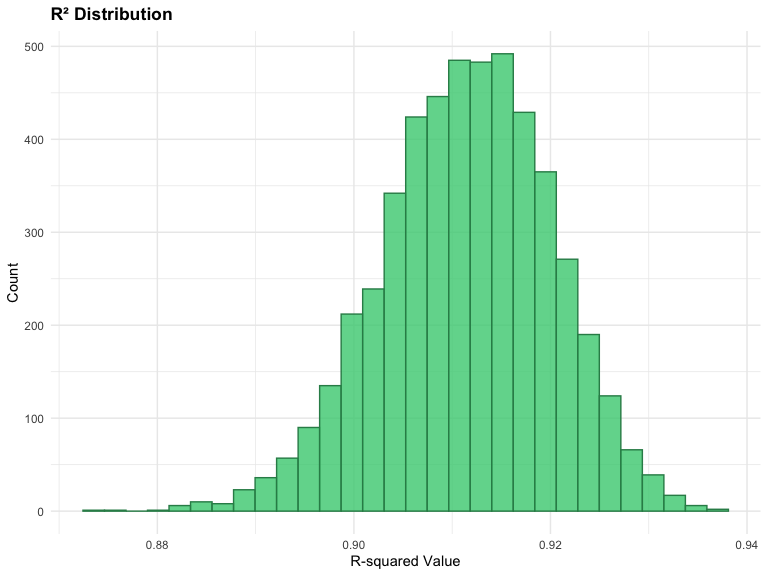
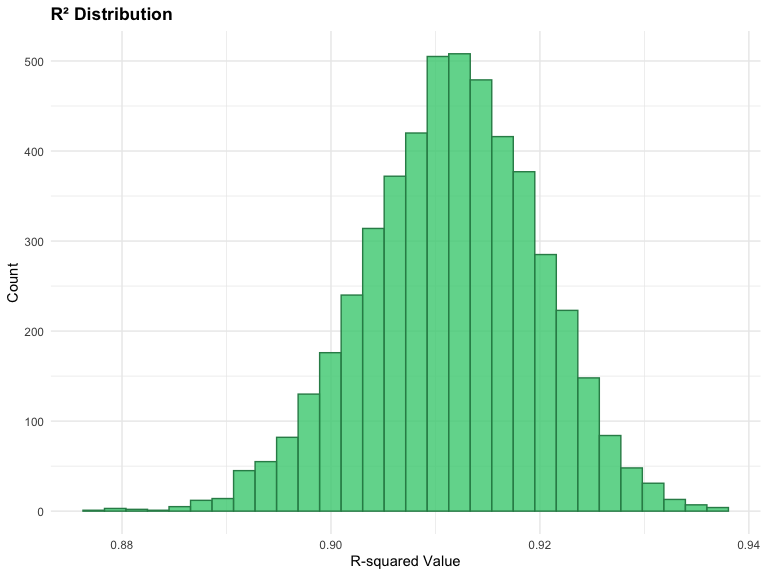
problem 2 first

diff --git a/p8105_hw6_yg2964.md b/p8105_hw6_yg2964.md
@@ -66,7 +66,7 @@ options(
 scale_colour_discrete = scale_colour_viridis_d
 scale_fill_discrete = scale_fill_viridis_d
 
-set.seed(127)
+set.seed(924)
 ```
 
 ### Problem 1
@@ -77,11 +77,11 @@ weather_df =
     c("USW00094728"),
     var = c("PRCP", "TMIN", "TMAX"), 
     date_min = "2017-01-01",
-    date_max = "2017-12-31") %>%
+    date_max = "2017-12-31") |> 
   mutate(
     name = recode(id, USW00094728 = "CentralPark_NY"),
     tmin = tmin / 10,
-    tmax = tmax / 10) %>%
+    tmax = tmax / 10) |> 
   select(name, id, everything())
 
 get_resample = function(df) {
@@ -156,3 +156,188 @@ Distribution: Centered around 2.02 with values ranging from 1.95 to
 2.10, displaying a symmetric distribution that confirms stable, positive
 coefficient products and supports the positive correlation between
 variables.
+
+### Problem 2
+
+``` r
+crime_data = read_csv("https://raw.githubusercontent.com/washingtonpost/data-homicides/master/homicide-data.csv") |>
+  janitor::clean_names() |>
+  mutate(
+    location = paste(city, state, sep = ", "),
+    case_solved = ifelse(disposition == "Closed by arrest", 1, 0),
+    age = as.numeric(victim_age)
+  ) |>
+  filter(!location %in% c("Dallas, TX", "Phoenix, AZ", "Kansas City, MO", "Tulsa, AL")) |>
+  filter(victim_race %in% c("White", "Black"))
+```
+
+#### Single City Analysis (Baltimore)
+
+``` r
+baltimore_data = crime_data |>
+  filter(location == "Baltimore, MD") |>
+  select(uid, case_solved, age, victim_sex, victim_race)
+
+# Fit logistic model for Baltimore
+fit_md_logistic = baltimore_data |>
+  glm(case_solved ~ age + victim_sex + victim_race,
+      data = _, family = binomial())
+
+# Get Baltimore results
+fit_md_logistic |>
+  broom::tidy(conf.int = TRUE) |>
+  mutate(
+    OR = exp(estimate),
+    OR_conf.low = exp(conf.low),
+    OR_conf.high = exp(conf.high)
+  ) |>
+  filter(term == "victim_sexMale") |>
+  select(term, OR, OR_conf.low, OR_conf.high) |>
+  knitr::kable(digits = 3)
+```
+
+| term           |    OR | OR_conf.low | OR_conf.high |
+|:---------------|------:|------------:|-------------:|
+| victim_sexMale | 0.426 |       0.324 |        0.558 |
+
+The odds of solving a homicide in Baltimore for male victims are 0.426
+times the odds for female victims (95% CI: 0.324-0.558), after adjusting
+for age and race. This indicates significantly lower clearance rates for
+male victims compared to female victims.
+
+#### Analysis for All Cities
+
+``` r
+# Function for City Analysis 
+fit_logistic = function(data){
+  model = glm(case_solved ~ age + victim_sex + victim_race,
+              data = data, family = binomial())
+  
+  model |>
+    broom::tidy(conf.int = TRUE) |>
+    mutate(
+      OR = exp(estimate),
+      OR_conf.low = exp(conf.low),
+      OR_conf.high = exp(conf.high)
+    ) |>
+    filter(term == "victim_sexMale") |>
+    select(term, OR, OR_conf.low, OR_conf.high)
+}
+city_results = crime_data |>
+  group_by(location) |>
+  nest() |>
+  mutate(
+    model = map(data, fit_logistic)
+  ) |>
+  unnest(model) |>
+  select(location, OR, OR_conf.low, OR_conf.high) |>
+  ungroup()
+
+
+city_results |>
+  knitr::kable(digits = 3)
+```
+
+| location           |    OR | OR_conf.low | OR_conf.high |
+|:-------------------|------:|------------:|-------------:|
+| Albuquerque, NM    | 1.767 |       0.825 |        3.762 |
+| Atlanta, GA        | 1.000 |       0.680 |        1.458 |
+| Baltimore, MD      | 0.426 |       0.324 |        0.558 |
+| Baton Rouge, LA    | 0.381 |       0.204 |        0.684 |
+| Birmingham, AL     | 0.870 |       0.571 |        1.314 |
+| Boston, MA         | 0.674 |       0.353 |        1.277 |
+| Buffalo, NY        | 0.521 |       0.288 |        0.936 |
+| Charlotte, NC      | 0.884 |       0.551 |        1.391 |
+| Chicago, IL        | 0.410 |       0.336 |        0.501 |
+| Cincinnati, OH     | 0.400 |       0.231 |        0.667 |
+| Columbus, OH       | 0.532 |       0.377 |        0.748 |
+| Denver, CO         | 0.479 |       0.233 |        0.962 |
+| Detroit, MI        | 0.582 |       0.462 |        0.734 |
+| Durham, NC         | 0.812 |       0.382 |        1.658 |
+| Fort Worth, TX     | 0.669 |       0.394 |        1.121 |
+| Fresno, CA         | 1.335 |       0.567 |        3.048 |
+| Houston, TX        | 0.711 |       0.557 |        0.906 |
+| Indianapolis, IN   | 0.919 |       0.678 |        1.241 |
+| Jacksonville, FL   | 0.720 |       0.536 |        0.965 |
+| Las Vegas, NV      | 0.837 |       0.606 |        1.151 |
+| Long Beach, CA     | 0.410 |       0.143 |        1.024 |
+| Los Angeles, CA    | 0.662 |       0.457 |        0.954 |
+| Louisville, KY     | 0.491 |       0.301 |        0.784 |
+| Memphis, TN        | 0.723 |       0.526 |        0.984 |
+| Miami, FL          | 0.515 |       0.304 |        0.873 |
+| Milwaukee, wI      | 0.727 |       0.495 |        1.054 |
+| Minneapolis, MN    | 0.947 |       0.476 |        1.881 |
+| Nashville, TN      | 1.034 |       0.681 |        1.556 |
+| New Orleans, LA    | 0.585 |       0.422 |        0.812 |
+| New York, NY       | 0.262 |       0.133 |        0.485 |
+| Oakland, CA        | 0.563 |       0.364 |        0.867 |
+| Oklahoma City, OK  | 0.974 |       0.623 |        1.520 |
+| Omaha, NE          | 0.382 |       0.199 |        0.711 |
+| Philadelphia, PA   | 0.496 |       0.376 |        0.650 |
+| Pittsburgh, PA     | 0.431 |       0.263 |        0.696 |
+| Richmond, VA       | 1.006 |       0.483 |        1.994 |
+| San Antonio, TX    | 0.705 |       0.393 |        1.238 |
+| Sacramento, CA     | 0.669 |       0.326 |        1.314 |
+| Savannah, GA       | 0.867 |       0.419 |        1.780 |
+| San Bernardino, CA | 0.500 |       0.166 |        1.462 |
+| San Diego, CA      | 0.413 |       0.191 |        0.830 |
+| San Francisco, CA  | 0.608 |       0.312 |        1.155 |
+| St. Louis, MO      | 0.703 |       0.530 |        0.932 |
+| Stockton, CA       | 1.352 |       0.626 |        2.994 |
+| Tampa, FL          | 0.808 |       0.340 |        1.860 |
+| Tulsa, OK          | 0.976 |       0.609 |        1.544 |
+| Washington, DC     | 0.690 |       0.465 |        1.012 |
+
+#### Create Plot
+
+``` r
+city_results |>
+  mutate(
+    location = fct_reorder(location, OR)
+  ) |>
+  ggplot(aes(x = location, y = OR)) +
+  geom_point() +
+  geom_errorbar(
+    aes(ymin = OR_conf.low, ymax = OR_conf.high), 
+    width = 0.5
+  ) +
+  geom_hline(
+    yintercept = 1, 
+    linetype = "dashed", 
+    color = "red"
+  ) +
+  labs(
+    title = "Adjusted Odds Ratios for Solving Homicides by City",
+    x = "City",
+    y = "Odds Ratio (Male vs Female)"
+  ) +
+  theme_minimal() +
+  theme(
+    axis.text.x = element_text(angle = 90, hjust = 1)
+  )
+```
+
+<img src="p8105_hw6_yg2964_files/figure-gfm/unnamed-chunk-6-1.png" width="90%" />
+
+The plot shows adjusted odds ratios for solving homicides comparing male
+to female victims across different U.S. cities. A few key observations:
+
+- Most cities show odds ratios below 1 (red dashed line), indicating
+  that homicides with male victims are generally less likely to be
+  solved than those with female victims.
+
+- Cities like New York and Baton Rouge have the lowest odds ratios
+  (around 0.3-0.4), suggesting male victim cases are much less likely to
+  be solved in these locations.
+
+- A few cities like Albuquerque and Stockton show odds ratios above 1,
+  indicating higher likelihood of solving male victim cases, though
+  their wide confidence intervals suggest less precise estimates.
+
+- The confidence intervals (vertical lines) vary in width across cities,
+  reflecting different levels of uncertainty in the estimates, with
+  smaller cities typically showing wider intervals.
+
+- Baltimore (shown earlier with OR=0.426) falls in the lower third of
+  cities, indicating a relatively strong disparity in solving cases
+  between male and female victims.
